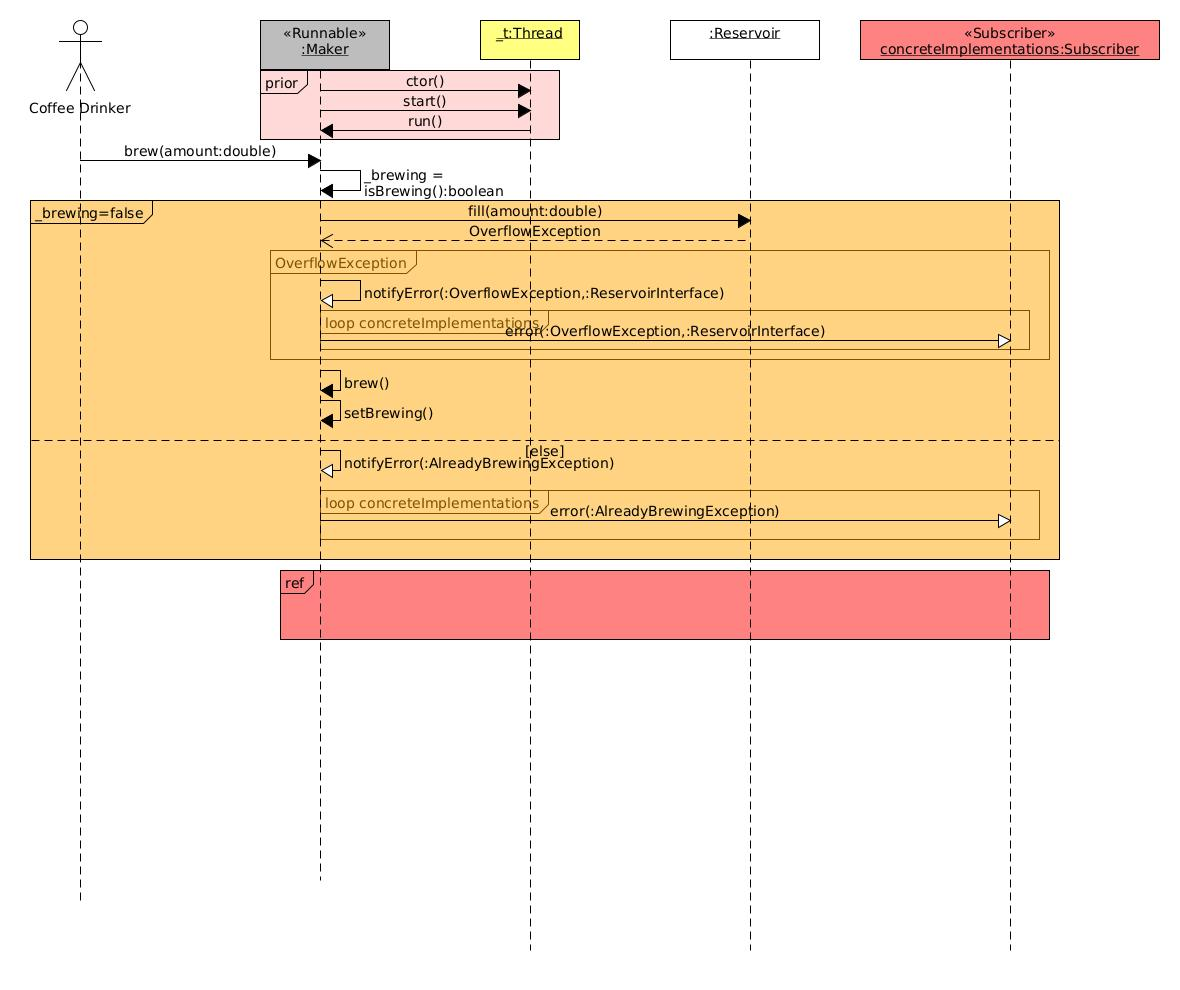
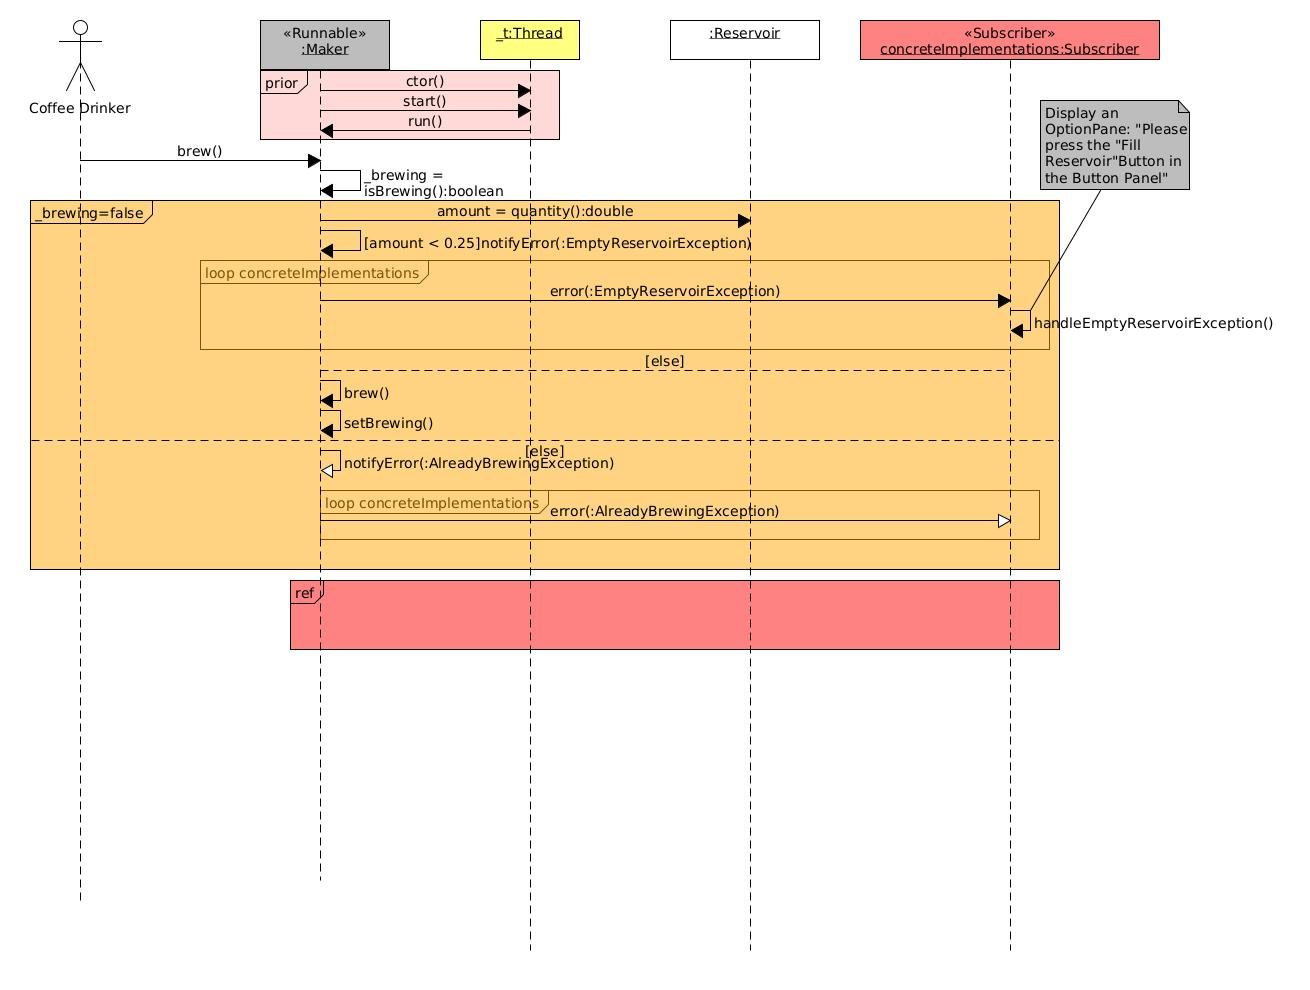
06-04-23-03

Changed region(s): [[0.0, 0.0, 0.9763, 0.6667], [0.5492, 0.0, 1.0, 0.0606], [0.0305, 0.0606, 0.122, 0.1212]]

diff --git a/CoffeeMakerView.java b/CoffeeMakerView.java
@@ -81,7 +81,7 @@ implements Subscriber{
       EmptyReservoirException ere
    ){
       String fill = "Please fill the Reservoir\nBy pressing the";
-      fill += "\"Fill\" Button \nin the \"Reservoir\" Section";
+      fill += "\"Fill Reservoir\" \nButton in the Button Panel";
       JOptionPane.showMessageDialog(this,
                                     fill,
                                     "Fill the Reservoir",
@@ -416,16 +416,7 @@ implements Subscriber{
       topPanel.add(capacity);
       panel.add(topPanel);
       
-      //Add a "Fill" JButton
-      JPanel centerPanel = new JPanel();
-      centerPanel.setBorder(BorderFactory.createEtchedBorder());
-      JButton fill = new JButton("Fill");
-      fill.setActionCommand("Reservoir Fill");
-      fill.addActionListener(this._controller);
-      fill.addKeyListener(this._controller);
-      centerPanel.add(fill);
-      panel.add(centerPanel);
-
+      panel.add(new JPanel());
       panel.add(new JPanel());
       return panel;
    }
@@ -478,6 +469,13 @@ implements Subscriber{
       returnCarafe.addActionListener(this._controller);
       returnCarafe.addKeyListener(this._controller);
       panel.add(returnCarafe);
+      
+      JButton fill = new JButton("Fill Reservoir");
+      fill.setActionCommand("Reservoir Fill");
+      fill.setMnemonic(KeyEvent.VK_F);
+      fill.addActionListener(this._controller);
+      fill.addKeyListener(this._controller);
+      panel.add(fill);
 
       return panel;
    }

diff --git a/Maker.java b/Maker.java
@@ -79,9 +79,7 @@ public class Maker implements Runnable{
          }
          else{
             //Set the State to State.BRESING
-            //READY->BREWING
-            //this.setBrewing();
-            System.out.println("READY->BREWING");
+            this.setBrewing();
          }
       }
       else{
@@ -304,6 +302,8 @@ public class Maker implements Runnable{
    //
    private void setBrewing(){
       this._state = State.BREWING;
+      //Notify Observers of State Change
+      this.notifyOfState();
    }
 
    //
@@ -311,6 +311,8 @@ public class Maker implements Runnable{
    //
    private void setReady(){
       this._state = State.READY;
+      //Notfiy Observers of State Change
+      this.notifyOfState();
    }
 
    //////////////////////Interface Methods////////////////////////////
